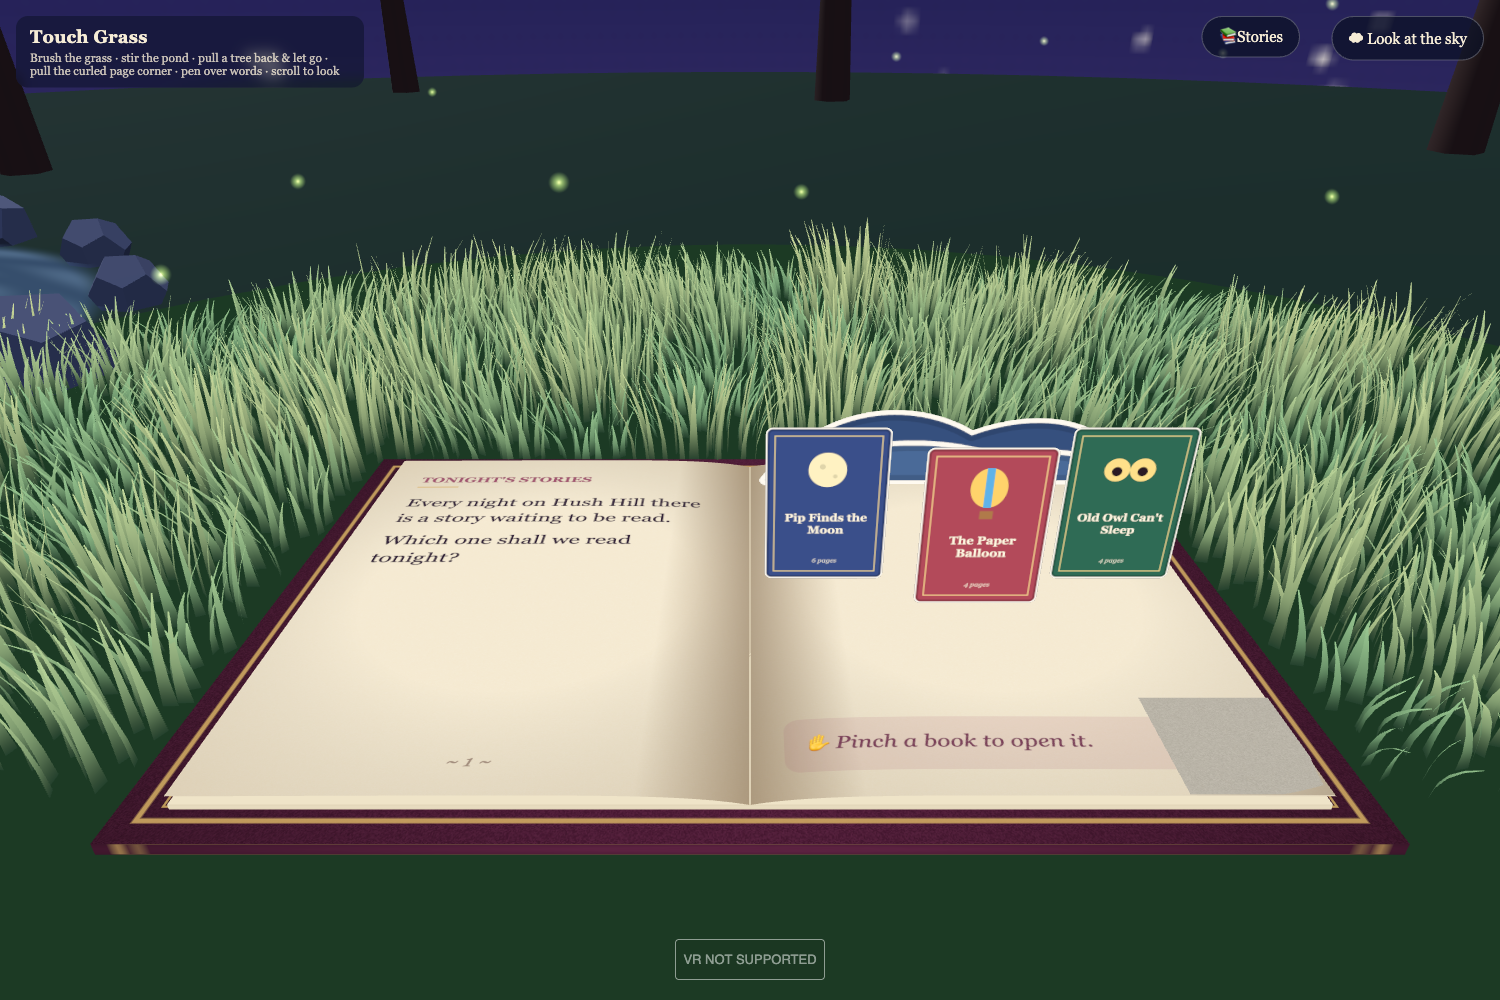
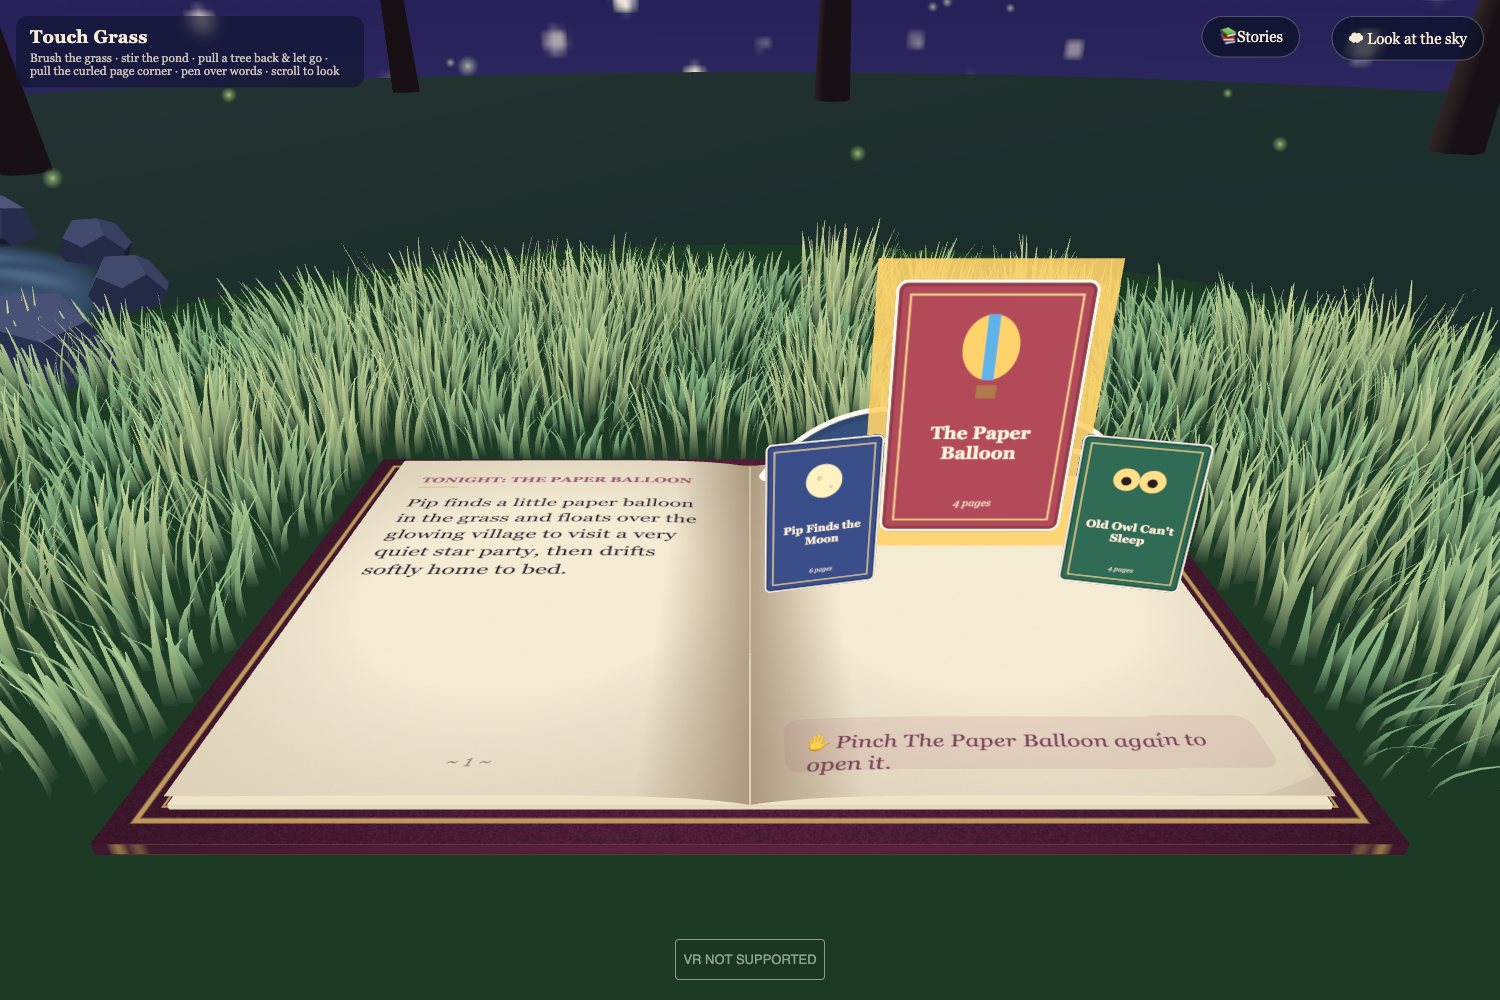
Story menu: magnify on hover, selected state with glow and preview, pick-one prompt

diff --git a/main.js b/main.js
@@ -907,26 +907,52 @@ const OWL = [
       tappable(m, function () { hop(m); [0, 2, 4, 5].forEach((n, k) => setTimeout(() => note(LULL[n] / 2, 1.2), k * 220)); dim = 1; }); } },
 ];
 const STORY_LIST = [
-  { id: 'pip', title: 'Pip Finds the Moon', sub: `${PIP.length} pages`, color: '#3a4f8a', icon: ICON.moon, pages: PIP },
-  { id: 'balloon', title: 'The Paper Balloon', sub: `${BALLOON.length} pages`, color: '#b34a5a', icon: ICON.balloon, pages: BALLOON },
-  { id: 'owl', title: "Old Owl Can't Sleep", sub: `${OWL.length} pages`, color: '#2f6b55', icon: ICON.owl, pages: OWL },
+  { id: 'pip', title: 'Pip Finds the Moon', sub: `${PIP.length} pages`, color: '#3a4f8a', icon: ICON.moon, pages: PIP, blurb: 'The moon is missing from the sky over Hush Hill. Help Pip ask Old Owl, wake the sleepy river stars and tickle a cloud, then breathe slowly before goodnight.' },
+  { id: 'balloon', title: 'The Paper Balloon', sub: `${BALLOON.length} pages`, color: '#b34a5a', icon: ICON.balloon, pages: BALLOON, blurb: 'Pip finds a little paper balloon in the grass and floats over the glowing village to visit a very quiet star party, then drifts softly home to bed.' },
+  { id: 'owl', title: "Old Owl Can't Sleep", sub: `${OWL.length} pages`, color: '#2f6b55', icon: ICON.owl, pages: OWL, blurb: 'Old Owl is wide awake. Count the fireflies with Pip and share three slow breaths until the whole of Whisper Wood falls asleep.' },
 ];
 const LIBRARY = [{
-  heading: "Tonight's Stories", text: 'Every night on Hush Hill there is a story waiting to be read.\nWhich one shall we read tonight?',
-  hint: 'Pinch a book to open it.',
+  heading: 'Pick One Story for Tonight', text: 'Every night on Hush Hill there is a story waiting to be read.\nLook at the books, choose the one you would like tonight, and we will read it together.',
+  hint: 'Pinch a book to choose it.',
   build() {
-    place(cutout(0.19, 0.06, D.hills('#36507e', '#4a6a98')), 0, -0.1, 0);
+    lib.covers = []; lib.hover = null; lib.sel = null;
+    place(cutout(0.19, 0.06, D.hills('#36507e', '#4a6a98')), 0, -0.105, 0);
     STORY_LIST.forEach((st, i) => {
-      const c = place(cutout(0.056, 0.078, D.cover(st.title, st.sub, st.color, st.icon)), -0.066 + i * 0.066, -0.005 + (i % 2) * 0.02, 0.15 + i * 0.12);
-      tappable(c, function () { hop(this); note(523.25 + i * 90); pending = st; turnPage(); });
+      const W = 0.064, H = 0.09;
+      const c = place(cutout(W, H, D.cover(st.title, st.sub, st.color, st.icon)), -0.068 + i * 0.068, -0.01 + Math.abs(i - 1) * 0.012, 0.15 + i * 0.12);
+      c.rotation.y = (1 - i) * 0.22;                                   // gentle fan
+      const glowG = new THREE.PlaneGeometry(W * 1.16, H * 1.12); glowG.translate(0, H / 2, -0.0008);
+      const glow = new THREE.Mesh(glowG, new THREE.MeshBasicMaterial({ color: 0xffd36b, transparent: true, opacity: 0, depthWrite: false, side: THREE.DoubleSide }));
+      c.add(glow); c.userData.glow = glow; c.userData.story = st; c.userData.lib = { s: 1, y: 0 };
+      lib.covers.push(c);
+      tappable(c, function () {
+        if (lib.sel === this) { note(659.25); setTimeout(() => note(783.99, 0.6), 120); pending = st; turnPage(); return; }
+        lib.sel = this; hop(this); [523.25, 659.25].forEach((f, k) => setTimeout(() => note(f, 0.4), k * 90));
+        drawPages(1, 1, 'Tonight: ' + st.title, st.blurb, 'Pinch ' + st.title + ' again to open it.');
+      });
     });
   },
 }];
 let PAGES = LIBRARY, storyId = 'lib', pending = null, goLib = false;
+const lib = { covers: [], hover: null, sel: null, lastHover: null };
+function libHover(c) {
+  if (c === lib.hover) return; lib.hover = c;
+  if (c && actx) { const o = actx.createOscillator(), g = actx.createGain(); o.frequency.value = 1320; g.gain.setValueAtTime(0.03, actx.currentTime); g.gain.exponentialRampToValueAtTime(0.0001, actx.currentTime + 0.06); o.connect(g).connect(actx.destination); o.start(); o.stop(actx.currentTime + 0.07); }
+}
+function updateLibrary(dt) {
+  if (PAGES !== LIBRARY) return;
+  for (const c of lib.covers) {
+    const L = c.userData.lib, isSel = lib.sel === c, isHov = lib.hover === c;
+    const ts = isSel ? 1.32 : isHov ? 1.18 : lib.sel ? 0.84 : 1, ty = isSel ? 0.022 : isHov ? 0.01 : 0;
+    L.s += (ts - L.s) * Math.min(1, dt * 9); L.y += (ty - L.y) * Math.min(1, dt * 9);
+    if (c.userData.popT >= 1) { c.scale.setScalar(L.s); c.userData.baseY = L.y; }
+    c.userData.glow.material.opacity += ((isSel ? 0.9 : isHov ? 0.35 : 0) - c.userData.glow.material.opacity) * Math.min(1, dt * 9);
+  }
+}
 function nextTarget() {
   if (goLib) { goLib = false; return [LIBRARY, 0, 'lib']; }
   if (pending) { const p = pending; pending = null; return [p.pages, 0, p.id]; }
-  if (PAGES === LIBRARY) return [STORY_LIST[0].pages, 0, STORY_LIST[0].id];
+  if (PAGES === LIBRARY) { const st = lib.sel ? lib.sel.userData.story : STORY_LIST[0]; return [st.pages, 0, st.id]; }
   if (page + 1 >= PAGES.length) return [LIBRARY, 0, 'lib'];
   return [PAGES, page + 1, storyId];
 }
@@ -1017,7 +1043,9 @@ function updateHands() {
     const p = a.clone().add(b).multiplyScalar(0.5), d = a.distanceTo(b);
     h.tip.visible = true; h.tip.position.copy(p);
     if (world.pond) { const lp = world.pond.worldToLocal(a.clone()); if (Math.hypot(lp.x, lp.y) < 0.42 && Math.abs(lp.z) < 0.03) { const uv = new THREE.Vector2(lp.x / 0.84 + 0.5, lp.y / 0.84 + 0.5); const sp = h.lastWet ? a.distanceTo(h.lastWet) / Math.max(dtH, 1e-3) : 0; if (!h.inWater) { plop(0.7); h.inWater = true; } if (!h.lastRip || t0() - h.lastRip > 0.06) { h.lastRip = t0(); stirAt(uv, sp * 0.3); } h.lastWet = a.clone(); } else { h.inWater = false; h.lastWet = null; } }
-    if (h === hands[0]) cornerNear = false;
+    if (h === hands[0]) { cornerNear = false; if (PAGES === LIBRARY) lib.frameHover = null; }
+    if (PAGES === LIBRARY) for (const c of lib.covers) if (new THREE.Box3().setFromObject(c).expandByScalar(0.015).containsPoint(a)) lib.frameHover = c;
+    if (PAGES === LIBRARY && h === hands[1]) libHover(lib.frameHover || null);
     if (corner.getWorldPosition(new THREE.Vector3()).distanceTo(a) < 0.07) cornerNear = true;
     const cp = !h.pinching && pageCanvasPoint(a);
     if (cp) { pen.visible = true; pen.position.copy(a); penOwner = h; highlightAt(cp[0], cp[1]); }
@@ -1065,6 +1093,7 @@ renderer.domElement.addEventListener('pointermove', e => {
   ndc.set((e.clientX / innerWidth) * 2 - 1, -(e.clientY / innerHeight) * 2 + 1); ray.setFromCamera(ndc, camera);
   ray.ray.intersectPlane(grassPlane, grassU.uH2.value) || grassU.uH2.value.set(9, 9, 9);
   cornerNear = !!ray.intersectObject(corner).length;
+  if (PAGES === LIBRARY) { const ch = ray.intersectObjects(lib.covers, false)[0]; libHover(ch ? ch.object : null); }
   if (drag.tree) { const g = drag.tree.userData.grab; g.tz = Math.max(-0.5, Math.min(0.5, -(e.clientX - g.x) * 0.0022)); g.tx = Math.max(-0.4, Math.min(0.4, (e.clientY - g.y) * 0.0022)); return; }
   const ph = world.pond && ray.intersectObject(world.pond)[0];
   if (ph && drag.pond) { const sp = Math.hypot(e.movementX || 0, e.movementY || 0) / 400; if (!world.lastStir || t0() - world.lastStir > 0.05) { world.lastStir = t0(); stirAt(ph.uv, sp); } return; }
@@ -1104,6 +1133,7 @@ renderer.setAnimationLoop(() => {
     m.position.y = y;
   }
   updatePeel(t, dt);
+  updateLibrary(dt);
   renderer.toneMappingExposure += ((dim ? 0.45 : 1) - renderer.toneMappingExposure) * dt * 0.8;
   renderer.render(scene, camera);
 });

diff --git a/index.html b/index.html
@@ -28,6 +28,6 @@
 <button id="libbtn" style="position:fixed;right:200px;top:16px;z-index:5;padding:10px 16px;border-radius:999px;border:1px solid rgba(255,255,255,.25);background:rgba(11,16,38,.75);color:#f6ecd6;font:15px Georgia,serif;cursor:pointer">📚  Stories</button>
 <button id="skybtn" style="position:fixed;right:16px;top:16px;z-index:5;padding:10px 16px;border-radius:999px;border:1px solid rgba(255,255,255,.25);background:rgba(11,16,38,.75);color:#f6ecd6;font:15px Georgia,serif;cursor:pointer">☁  Look at the sky</button>
 <script>setTimeout(()=>document.getElementById("intro").classList.add("faded"),7000)</script>
-<script type="module" src="./main.js?v=peel17"></script>
+<script type="module" src="./main.js?v=lib18"></script>
 </body>
 </html>
